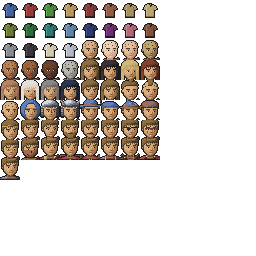
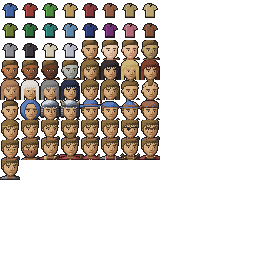
Custom hero: shaved head drawn as a buzz cut

Changed region(s): [[0.0, 0.2188, 0.3125, 0.2812], [0.3125, 0.1562, 0.625, 0.1875], [0.0, 0.375, 0.0625, 0.4375]]

diff --git a/tools/sprites/hero_bust_layers.py b/tools/sprites/hero_bust_layers.py
@@ -264,13 +264,9 @@ def head_fn(hid):
             for (x, y) in ((-6, 4), (-5, 6), (4, 5), (5, 3), (-7, 7), (6, 6)):
                 r.put(CX + x, y + hy, 3.5, "m_hair", 0.5, stub, 1)
         elif hid == "Shaved":
-            stub = r.part(True, 3.5); r.hand.add(stub)
-            # a dark shadow of stubble over the scalp: a scatter of hair-coloured specks, denser toward the back
-            for y in range(2, 8):
-                for x in range(-7, 7):
-                    inside = (x / 7.2) ** 2 + ((y - 7.5) / 5.6) ** 2 <= 1.0
-                    if inside and ((x * 7 + y * 5) % 11 == 0 or (x < -4 and (x * 3 + y) % 5 == 0)):
-                        r.put(CX + x, y + hy, 3.5, "m_hair", 0.5, stub, 1.5 if x < 0 else 1)
+            # a buzz cut: a thin cap of stubble hugging the scalp, the hairline crisp over the brow
+            OP.hair(r, p, {1: (-4, 3), 2: (-6, 5), 3: (-7, 6), 4: (-7, 6), 5: (-7, 6), 6: (-7, -4), 7: (-7, -6)},
+                    mat="m_hair", z=2.5, bias=-0.15)
         elif hid == "Hood":
             hood_cut(r, p, "m_main")
         elif hid == "Helm":
